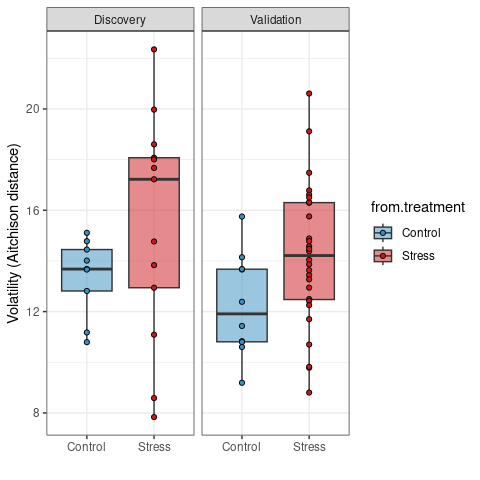
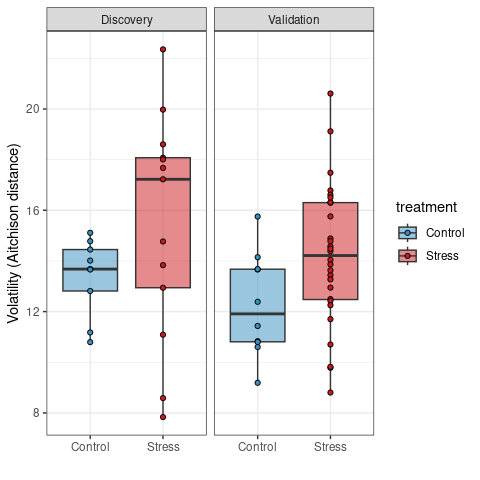
update

diff --git a/README.md b/README.md
@@ -115,14 +115,14 @@ vola_out %>%
   ggplot() +
   
   #Define aesthetics
-  aes(x = from.treatment, y = dist, fill = from.treatment) + 
+  aes(x = treatment, y = dist, fill = treatment) + 
   
   #Define geoms, boxplots overlayed with data points in this case
   geom_boxplot(alpha = 1/2)+
   geom_point(shape = 21) +
   
   #Split the plot by cohort
-  facet_wrap(~from.cohort) +
+  facet_wrap(~cohort) +
   
   #Tweak appearance 
   scale_fill_manual(values = c("Control" = "#3690c0", "Stress"  = "#cb181d")) +
